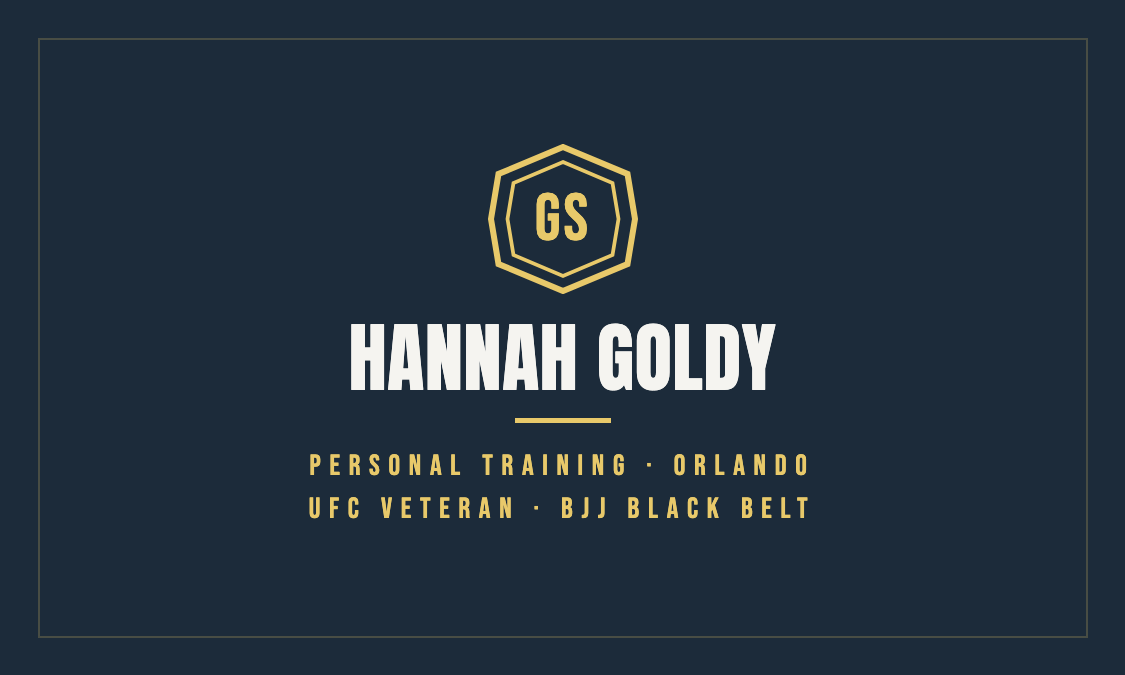
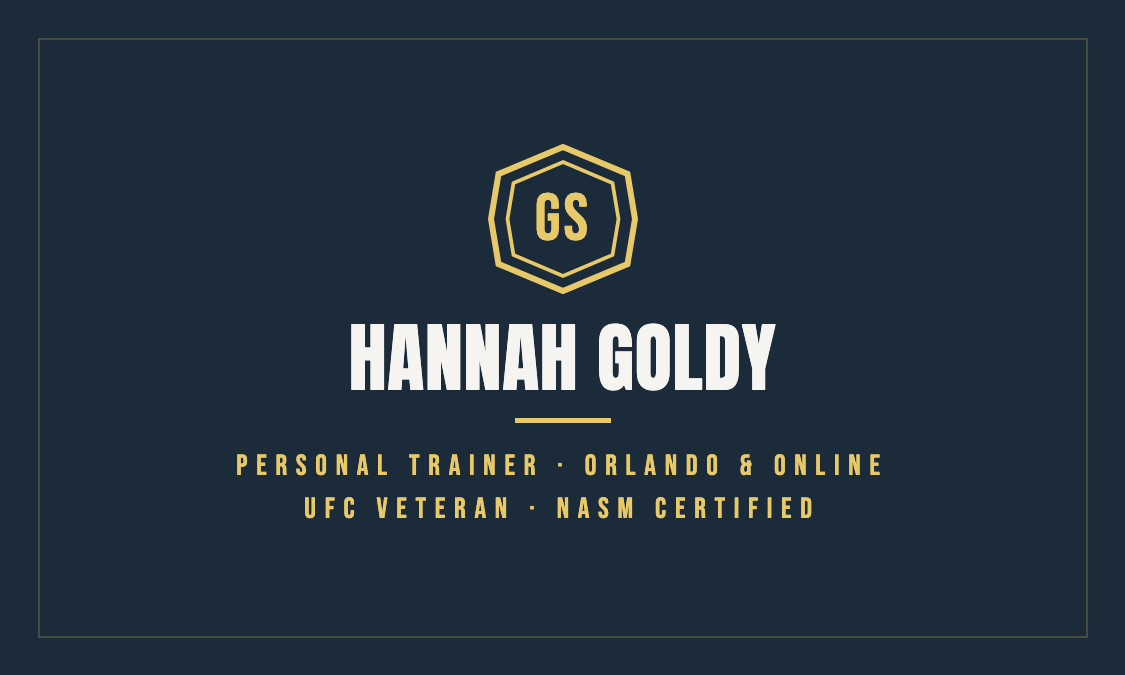
Hannah feedback: bring back "12 Years In MMA", reword business card
- Credentials bar on all three sites: UFC Veteran, NASM Certified Trainer,
  12 Years In MMA, BJJ Black Belt, Mom. Keeps the 12 years / 12 weeks echo
  Hannah likes while staying accurate (pro for 10). Sales page counter is
  back to 12 "Years In MMA"; icons now match their labels.
- Business card: "Personal Trainer, Orlando & Online", "UFC Veteran, NASM
  Certified" on the front; back says "Scan to say hi and book a free call".
  QR re-verified from the exported file.

Changed region(s): [[0.2178, 0.6533, 0.7778, 0.7778]]

diff --git a/site/index.html b/site/index.html
@@ -121,7 +121,7 @@
           <div class="credential__icon">
             <svg width="20" height="20" viewBox="0 0 24 24" fill="none" stroke="currentColor" stroke-width="2" aria-hidden="true"><path d="M22 10v6M2 10l10-5 10 5-10 5z"/><path d="M6 12v5c0 1.1 2.7 3 6 3s6-1.9 6-3v-5"/></svg>
           </div>
-          <span class="credential__text">Mom</span>
+          <span class="credential__text">NASM Certified Trainer</span>
         </div>
         <div class="credential">
           <div class="credential__icon">
@@ -133,7 +133,13 @@
           <div class="credential__icon">
             <svg width="20" height="20" viewBox="0 0 24 24" fill="none" stroke="currentColor" stroke-width="2" aria-hidden="true"><circle cx="12" cy="12" r="10"/><polyline points="12 6 12 12 16 14"/></svg>
           </div>
-          <span class="credential__text">NASM Certified Trainer</span>
+          <span class="credential__text">12 Years In MMA</span>
+        </div>
+        <div class="credential">
+          <div class="credential__icon">
+            <svg width="20" height="20" viewBox="0 0 24 24" fill="none" stroke="currentColor" stroke-width="2" aria-hidden="true"><path d="M20.84 4.61a5.5 5.5 0 0 0-7.78 0L12 5.67l-1.06-1.06a5.5 5.5 0 0 0-7.78 7.78l1.06 1.06L12 21.23l7.78-7.78 1.06-1.06a5.5 5.5 0 0 0 0-7.78z"/></svg>
+          </div>
+          <span class="credential__text">Mom</span>
         </div>
       </div>
     </div>
@@ -204,8 +210,8 @@
 
           <div class="about__stats stagger-children">
             <div class="stat">
-              <div class="stat__number counter" data-target="10">0</div>
-              <div class="stat__label">Years Pro</div>
+              <div class="stat__number counter" data-target="12">0</div>
+              <div class="stat__label">Years In MMA</div>
             </div>
             <div class="stat">
               <div class="stat__number">BJJ</div>

diff --git a/training/css/training.css b/training/css/training.css
@@ -60,7 +60,12 @@
   display: grid; grid-template-columns: repeat(2, 1fr);
   gap: 1px; background: var(--border-gold);
 }
-@media (min-width: 720px) { .creds__grid { grid-template-columns: repeat(4, 1fr); } }
+/* Five cells: two columns on phones with "Mom" spanning the last row, one row from 720px */
+.cred--wide { grid-column: 1 / -1; }
+@media (min-width: 720px) {
+  .creds__grid { grid-template-columns: repeat(5, 1fr); }
+  .cred--wide { grid-column: auto; }
+}
 .cred { background: var(--navy-deep); padding: 26px 12px; text-align: center; display: flex; flex-direction: column; justify-content: center; }
 .cred__n { display: block; font-family: var(--font-display); font-size: clamp(26px, 6vw, 38px); color: var(--gold); line-height: 1; text-transform: uppercase; }
 .cred__l { display: block; margin-top: 6px; font-family: var(--font-accent); font-size: 13px; letter-spacing: 0.18em; text-transform: uppercase; color: var(--text-dim); }

diff --git a/brand/card/back.html b/brand/card/back.html
@@ -4,11 +4,11 @@
   <div class="back__qr"><img src="qr-hannahgoldy-light.svg" alt="Scan for hannahgoldy.com"></div>
   <div class="back__body">
     <div class="back__url">hannahgoldy.com</div>
-    <div class="back__scan">Scan to book a free intro call</div>
+    <div class="back__scan">Scan to say hi and book a free call</div>
     <ul class="back__svcs">
       <li>One-on-one training in Orlando</li>
       <li>Online coaching, anywhere</li>
-      <li>Private jiu-jitsu &amp; MMA</li>
+      <li>Private jiu-jitsu &amp; MMA with a black belt</li>
     </ul>
     <div class="back__ig">@hannahgoldy</div>
   </div>

diff --git a/prelaunch/index.html b/prelaunch/index.html
@@ -86,8 +86,9 @@
   <div class="wrap creds__grid">
     <div class="cred"><span class="cred__n">UFC</span><span class="cred__l">Veteran</span></div>
     <div class="cred"><span class="cred__n">NASM</span><span class="cred__l">Certified Trainer</span></div>
+    <div class="cred"><span class="cred__n">12</span><span class="cred__l">Years In MMA</span></div>
     <div class="cred"><span class="cred__n">BJJ</span><span class="cred__l">Black Belt</span></div>
-    <div class="cred"><span class="cred__n">Mom</span></div>
+    <div class="cred cred--wide"><span class="cred__n">Mom</span></div>
   </div>
 </section>
 

diff --git a/training/index.html b/training/index.html
@@ -69,8 +69,9 @@
   <div class="wrap creds__grid">
     <div class="cred"><span class="cred__n">UFC</span><span class="cred__l">Veteran</span></div>
     <div class="cred"><span class="cred__n">NASM</span><span class="cred__l">Certified Trainer</span></div>
+    <div class="cred"><span class="cred__n">12</span><span class="cred__l">Years In MMA</span></div>
     <div class="cred"><span class="cred__n">BJJ</span><span class="cred__l">Black Belt</span></div>
-    <div class="cred"><span class="cred__n">Mom</span></div>
+    <div class="cred cred--wide"><span class="cred__n">Mom</span></div>
   </div>
 </section>
 

diff --git a/prelaunch/css/teaser.css b/prelaunch/css/teaser.css
@@ -91,7 +91,12 @@
   display: grid; grid-template-columns: repeat(2, 1fr);
   gap: 1px; background: var(--border-gold);
 }
-@media (min-width: 720px) { .creds__grid { grid-template-columns: repeat(4, 1fr); } }
+/* Five cells: two columns on phones with "Mom" spanning the last row, one row from 720px */
+.cred--wide { grid-column: 1 / -1; }
+@media (min-width: 720px) {
+  .creds__grid { grid-template-columns: repeat(5, 1fr); }
+  .cred--wide { grid-column: auto; }
+}
 .cred {
   background: var(--navy-deep);
   padding: 26px 12px; text-align: center;

diff --git a/brand/card/front.html b/brand/card/front.html
@@ -8,5 +8,5 @@
   </svg>
   <div class="front__name">Hannah Goldy</div>
   <div class="front__rule"></div>
-  <div class="front__role">Personal Training &middot; Orlando<br>UFC Veteran &middot; BJJ Black Belt</div>
+  <div class="front__role">Personal Trainer &middot; Orlando &amp; Online<br>UFC Veteran &middot; NASM Certified</div>
 </div></body></html>
